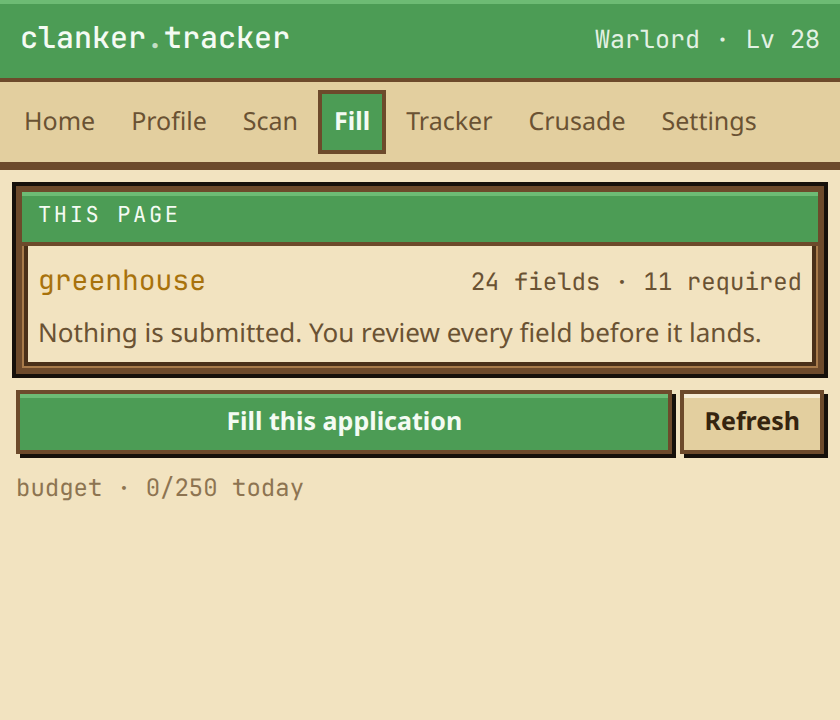
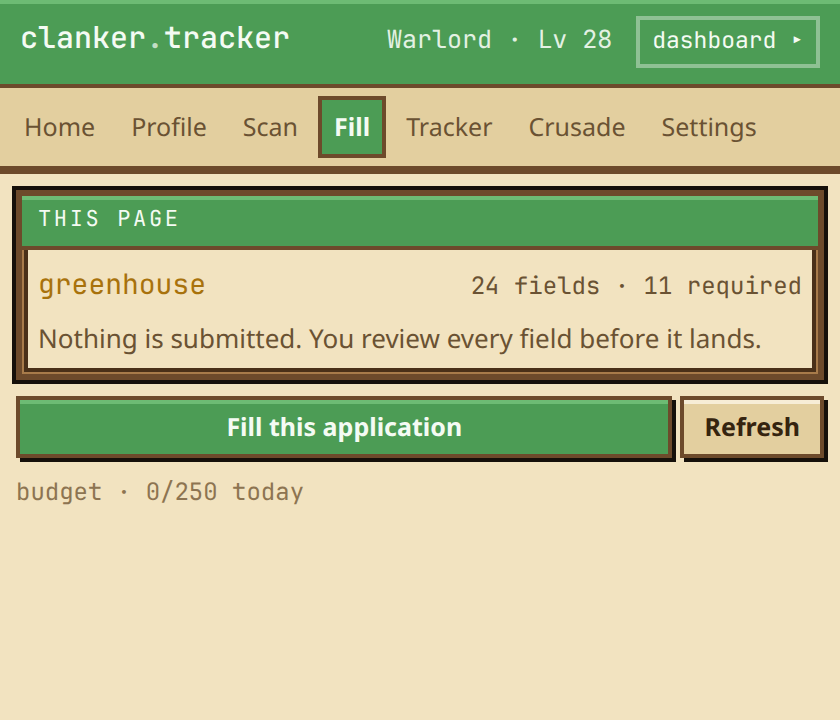
Give it a dashboard, in a tab, at full width
The side panel is 420 pixels because it lives beside a job application, and
that is the right shape for filling one form. It is the wrong shape for the
other half of a job hunt: reading your own history, correcting what the parser
got wrong, and seeing what six weeks of applying actually produced. Those want
a page, and there wasn't one.

Structure follows the one every job tool converges on, because it is correct —
a rail of who you are on the left, the substance on the right. What it does not
copy is the parts of those tools that exist to sell you something. No upgrade
card, no match score, no recruiter-visibility toggle, no streak. Nothing here
is trying to get you to open it tomorrow; the game already does that, honestly,
off work you actually did.

Five sections, each one a place your own data lives, against the seven or eight
of the tools it is modelled on — three of which are a job board we do not have
and a referral programme we never will. 'Services' becomes 'My Profile', which
is what that tab is for when nobody is selling anything.

The views are the panel's own, so there is one implementation of the profile
grid and one of the tracker board, at two widths.

Changed region(s): [[0.0, 0.0, 1.0, 0.7028], [0.0, 0.6722, 0.1238, 0.7028], [0.031, 0.1528, 0.1238, 0.1833]]

diff --git a/src/entrypoints/dashboard/Dashboard.tsx b/src/entrypoints/dashboard/Dashboard.tsx
@@ -1,0 +1,240 @@
+/**
+ * The dashboard: everything about you, at full width, in its own tab.
+ *
+ * The side panel is 420 pixels wide because it lives beside a job application,
+ * and that is the right shape for filling one form. It is the wrong shape for
+ * the other half of a job hunt — reading your own history, correcting what the
+ * parser got wrong, and seeing what six weeks of applying actually produced.
+ * Those want a page.
+ *
+ * The structure follows the one every job tool converges on, because it is
+ * correct: a rail of who you are on the left, the substance on the right. What
+ * it does *not* copy is the parts of those tools that exist to sell you
+ * something — there is no upgrade card, no match score, no recruiter
+ * visibility toggle, no streak. Nothing here is trying to get you to open it
+ * tomorrow; the game already does that, honestly, off work you actually did.
+ */
+import { useState } from 'react';
+import { useLiveQuery } from 'dexie-react-hooks';
+import { allApplications, getProfile, totalDp } from '@/lib/db/repo';
+import { costStats, funnelStats } from '@/lib/tracker/stats';
+import { levelFromDp, tierForLevel, TIERS, distanceToCitadel } from '@/lib/game/economy';
+import { profileCompleteness, type ResumeProfile } from '@/types/profile';
+import { Meter, Window } from '@/ui/dq';
+import Profile from '@/entrypoints/sidepanel/views/Profile';
+import Tracker from '@/entrypoints/sidepanel/views/Tracker';
+import Crusade from '@/entrypoints/sidepanel/views/Crusade';
+import Settings from '@/entrypoints/sidepanel/views/Settings';
+
+export type Section = 'home' | 'profile' | 'tracker' | 'crusade' | 'settings';
+
+/**
+ * The nav.
+ *
+ * Five entries, and every one of them is a place your own data lives. The
+ * tools this is modelled on carry seven or eight, of which three are a job
+ * board we do not have and a referral programme we will never have.
+ */
+const SECTIONS: ReadonlyArray<{ id: Section; label: string; blurb: string }> = [
+  { id: 'home', label: 'Home', blurb: 'Where the crusade stands' },
+  { id: 'profile', label: 'My Profile', blurb: 'What autofill answers with' },
+  { id: 'tracker', label: 'Applications', blurb: 'Everything you have sent' },
+  { id: 'crusade', label: 'Crusade', blurb: 'Clankerdom Deliverance' },
+  { id: 'settings', label: 'Settings', blurb: 'Key, voice, budget' },
+];
+
+export default function Dashboard({ initial }: { initial?: Section }) {
+  const [section, setSection] = useState<Section>(initial ?? 'home');
+
+  const profile = useLiveQuery(() => getProfile(), []);
+  const apps = useLiveQuery(() => allApplications(), [], []);
+  const dp = useLiveQuery(() => totalDp(), [], 0) ?? 0;
+
+  const { level } = levelFromDp(dp);
+  const tier = tierForLevel(level);
+  const tierTitle = TIERS.find((t) => t.tier === tier)?.title ?? 'Squire';
+  const name = profile?.contact.fullName.value || profile?.contact.email.value || 'Unnamed';
+
+  return (
+    <div className="min-h-full bg-window">
+      <header className="dq-banner flex items-baseline justify-between px-5 py-2.5">
+        <h1 className="font-mono text-[19px] font-semibold">
+          clanker<span className="opacity-70">.</span>tracker
+        </h1>
+        <span className="font-mono text-[14px] opacity-90">
+          {tierTitle} · Lv {level} · {dp} DP
+        </span>
+      </header>
+
+      <nav className="flex gap-1 overflow-x-auto border-b-4 border-frame bg-window-hi px-3 py-1.5">
+        {SECTIONS.map((s) => (
+          <button
+            key={s.id}
+            onClick={() => setSection(s.id)}
+            aria-current={section === s.id ? 'page' : undefined}
+            title={s.blurb}
+            className={`shrink-0 border-2 px-3 py-1.5 text-[14px] ${
+              section === s.id
+                ? 'border-frame bg-banner font-semibold text-banner-ink'
+                : 'border-transparent text-muted hover:border-frame-dim hover:text-parchment'
+            }`}
+          >
+            {s.label}
+          </button>
+        ))}
+      </nav>
+
+      <div className="mx-auto grid max-w-[1180px] gap-4 p-4 lg:grid-cols-[280px_1fr]">
+        {/* The rail. Who you are, and how far the crusade has gone. */}
+        <aside className="flex flex-col gap-3">
+          <Window title="You">
+            <p className="text-[17px] leading-tight">{name}</p>
+            {profile && (
+              <>
+                <p className="mt-1 font-mono text-[12.5px] text-muted">
+                  {profile.contact.email.value || (
+                    <span className="text-bad">no email parsed</span>
+                  )}
+                </p>
+                <p className="mt-2 font-mono text-[12.5px] text-faint">
+                  {profile.experience.length} roles · {profile.skills.length} skills
+                </p>
+                <Completeness profile={profile} />
+              </>
+            )}
+            {profile === null && (
+              <p className="mt-1 text-[13px] text-muted">
+                No resume yet. Add one under My Profile and every form after it fills itself.
+              </p>
+            )}
+          </Window>
+
+          <Window title={tierTitle} right={<span className="font-mono text-[12.5px]">{dp} DP</span>}>
+            <p className="font-mono text-[16px]">Level {level}</p>
+            <div className="mt-1.5">
+              <Meter value={levelFromDp(dp).progress} cells={18} />
+            </div>
+            <p className="mt-1.5 font-mono text-[12px] text-faint">
+              {distanceToCitadel(level)} nodes to the Citadel
+            </p>
+          </Window>
+
+          <nav className="flex flex-col gap-1">
+            {SECTIONS.filter((s) => s.id !== 'home').map((s) => (
+              <button
+                key={s.id}
+                onClick={() => setSection(s.id)}
+                data-selected={section === s.id}
+                className="dq-item dq-window text-[13.5px]"
+              >
+                <span className="flex-1">
+                  <span className="block">{s.label}</span>
+                  <span className="block text-[12px] text-faint">{s.blurb}</span>
+                </span>
+              </button>
+            ))}
+          </nav>
+        </aside>
+
+        <main className="min-w-0">
+          {section === 'home' ? (
+            <Home apps={apps} onGo={setSection} />
+          ) : section === 'profile' ? (
+            <Profile />
+          ) : section === 'tracker' ? (
+            <Tracker />
+          ) : section === 'crusade' ? (
+            <Crusade />
+          ) : (
+            <Settings />
+          )}
+        </main>
+      </div>
+    </div>
+  );
+}
+
+function Completeness({ profile }: { profile: ResumeProfile }) {
+  const { total, certain, missing } = profileCompleteness(profile);
+  return (
+    <>
+      <div className="mt-2">
+        <Meter value={certain / total} cells={total} />
+      </div>
+      <p className={`mt-1 font-mono text-[12px] ${missing > 0 ? 'text-warn' : 'text-ok'}`}>
+        {certain}/{total} contact fields confirmed
+      </p>
+    </>
+  );
+}
+
+/**
+ * Home.
+ *
+ * Counts and rates, and nothing that is a score. A "profile strength" or a
+ * "match rating" is a number nobody can act on, and inventing one is how a
+ * tracker starts moralising at someone having a bad month.
+ */
+function Home({
+  apps,
+  onGo,
+}: {
+  apps: Awaited<ReturnType<typeof allApplications>>;
+  onGo: (s: Section) => void;
+}) {
+  const funnel = funnelStats(apps);
+  const cost = costStats(apps);
+
+  return (
+    <div className="flex flex-col gap-4">
+      <div className="grid gap-3 sm:grid-cols-2 lg:grid-cols-4">
+        <Stat n={funnel.total} k="sent" />
+        <Stat n={`${Math.round(funnel.responseRate * 100)}%`} k="replied" />
+        <Stat n={funnel.byStatus.interview} k="interviews" tone="ok" />
+        <Stat n={cost.medianLlmCalls} k="median model calls" tone={cost.medianLlmCalls === 0 ? 'ok' : 'warn'} />
+      </div>
+
+      <Window
+        title="What it cost"
+        right={<span className="font-mono text-[12.5px]">{Math.round(cost.freeShare * 100)}% free</span>}
+      >
+        <p className="text-[14px] leading-relaxed text-muted">
+          The claim is that the median application costs nothing. This is that claim measured
+          against your own history rather than asserted — median, not mean, because one Workday
+          monster must not make a hundred free Greenhouse fills read as expensive.
+        </p>
+      </Window>
+
+      {funnel.stale > 0 && (
+        <Window title="Gone quiet">
+          <p className="text-[14px] text-warn">
+            {funnel.stale} {funnel.stale === 1 ? 'application has' : 'applications have'} heard
+            nothing in a month.
+          </p>
+          <button className="dq-btn mt-2 px-3 py-1.5" onClick={() => onGo('tracker')}>
+            Open the tracker
+          </button>
+        </Window>
+      )}
+    </div>
+  );
+}
+
+const TONE = { gold: 'text-gold', ok: 'text-ok', warn: 'text-warn' } as const;
+
+function Stat({
+  n,
+  k,
+  tone = 'gold',
+}: {
+  n: number | string;
+  k: string;
+  tone?: keyof typeof TONE;
+}) {
+  return (
+    <div className="dq-window px-3 py-2.5">
+      <p className={`font-mono text-[26px] leading-none ${TONE[tone]}`}>{n}</p>
+      <p className="dq-label mt-1.5">{k}</p>
+    </div>
+  );
+}

diff --git a/src/entrypoints/sidepanel/App.tsx b/src/entrypoints/sidepanel/App.tsx
@@ -51,9 +51,22 @@ export default function App({ initialRoute }: { initialRoute?: Route } = {}) {
         <h1 className="font-mono text-[15px] font-semibold">
           clanker<span className="opacity-70">.</span>tracker
         </h1>
-        <span className="font-mono text-[12.5px] opacity-90">
-          {tierTitle} · Lv {level}
-        </span>
+        <div className="flex items-baseline gap-3">
+          <span className="font-mono text-[12.5px] opacity-90">
+            {tierTitle} · Lv {level}
+          </span>
+          {/* The panel is 420px because it lives beside an application. Reading
+              your own history wants a page, so there is always one click to it. */}
+          <button
+            onClick={() =>
+              chrome.tabs.create({ url: chrome.runtime.getURL('dashboard.html') })
+            }
+            title="Open the dashboard in a tab"
+            className="border-2 border-banner-ink/40 px-1.5 py-0.5 font-mono text-[11.5px] hover:border-banner-ink"
+          >
+            dashboard ▸
+          </button>
+        </div>
       </header>
 
       <nav className="flex gap-0.5 overflow-x-auto border-b-4 border-frame bg-window-hi px-1 py-1">

diff --git a/src/entrypoints/dashboard/main.tsx b/src/entrypoints/dashboard/main.tsx
@@ -1,0 +1,34 @@
+import { StrictMode } from 'react';
+import { createRoot } from 'react-dom/client';
+import Dashboard, { type Section } from './Dashboard';
+import '@/ui/tokens.css';
+
+const root = document.getElementById('root');
+if (!root) throw new Error('root element missing');
+
+/** `#/demo` and `#/demo/profile` — the same convention the side panel uses. */
+const DEMO = /^#\/demo(?:\/([a-z]+))?$/;
+const DIRECT = /^#\/([a-z]+)$/;
+
+async function boot() {
+  const demo = DEMO.exec(location.hash);
+
+  if (demo) {
+    const { installDemoChrome } = await import('@/entrypoints/sidepanel/demoChrome');
+    installDemoChrome();
+    const { seedDemoData } = await import('@/lib/tracker/demo');
+    await seedDemoData();
+  }
+
+  // `#/demo` alone carries no section, and must not be read by the direct
+  // matcher as a section literally named "demo".
+  const section = (demo ? demo[1] : DIRECT.exec(location.hash)?.[1]) as Section | undefined;
+
+  createRoot(root!).render(
+    <StrictMode>
+      <Dashboard initial={section} />
+    </StrictMode>,
+  );
+}
+
+void boot();

diff --git a/src/entrypoints/dashboard/index.html b/src/entrypoints/dashboard/index.html
@@ -1,0 +1,12 @@
+<!doctype html>
+<html lang="en">
+  <head>
+    <meta charset="UTF-8" />
+    <meta name="viewport" content="width=device-width, initial-scale=1.0" />
+    <title>clanker.tracker — dashboard</title>
+  </head>
+  <body>
+    <div id="root"></div>
+    <script type="module" src="./main.tsx"></script>
+  </body>
+</html>

diff --git a/README.md b/README.md
@@ -77,6 +77,17 @@ adapter*, *answer memory*, *label match*, *fuzzy match*, *model* — so the cost
 visible at the moment you approve it rather than asserted in a README. Eleven certain, one model
 call, two left blank because guessing would have been worse than asking.
 
+There is a **full-page dashboard** as well, in its own tab, for the half of a job hunt the panel
+is the wrong shape for — reading your own history, correcting what the parser got wrong, seeing
+what six weeks of applying actually produced.
+
+<div align="center">
+<img src="./docs/demo/page-home.png" alt="The dashboard: a rail with who you are and the crusade meter, and a page of counts, cost and applications." width="820">
+</div>
+
+It carries no upgrade card, no match score, no recruiter-visibility toggle and no streak. Every
+one of its five sections is a place your own data lives.
+
 The rest — [Profile](./docs/demo/profile.png), [Scan](./docs/demo/scan.png),
 [Fill](./docs/demo/fill.png), [Settings](./docs/demo/settings.png) — are in
 [`docs/demo/`](./docs/demo/).
